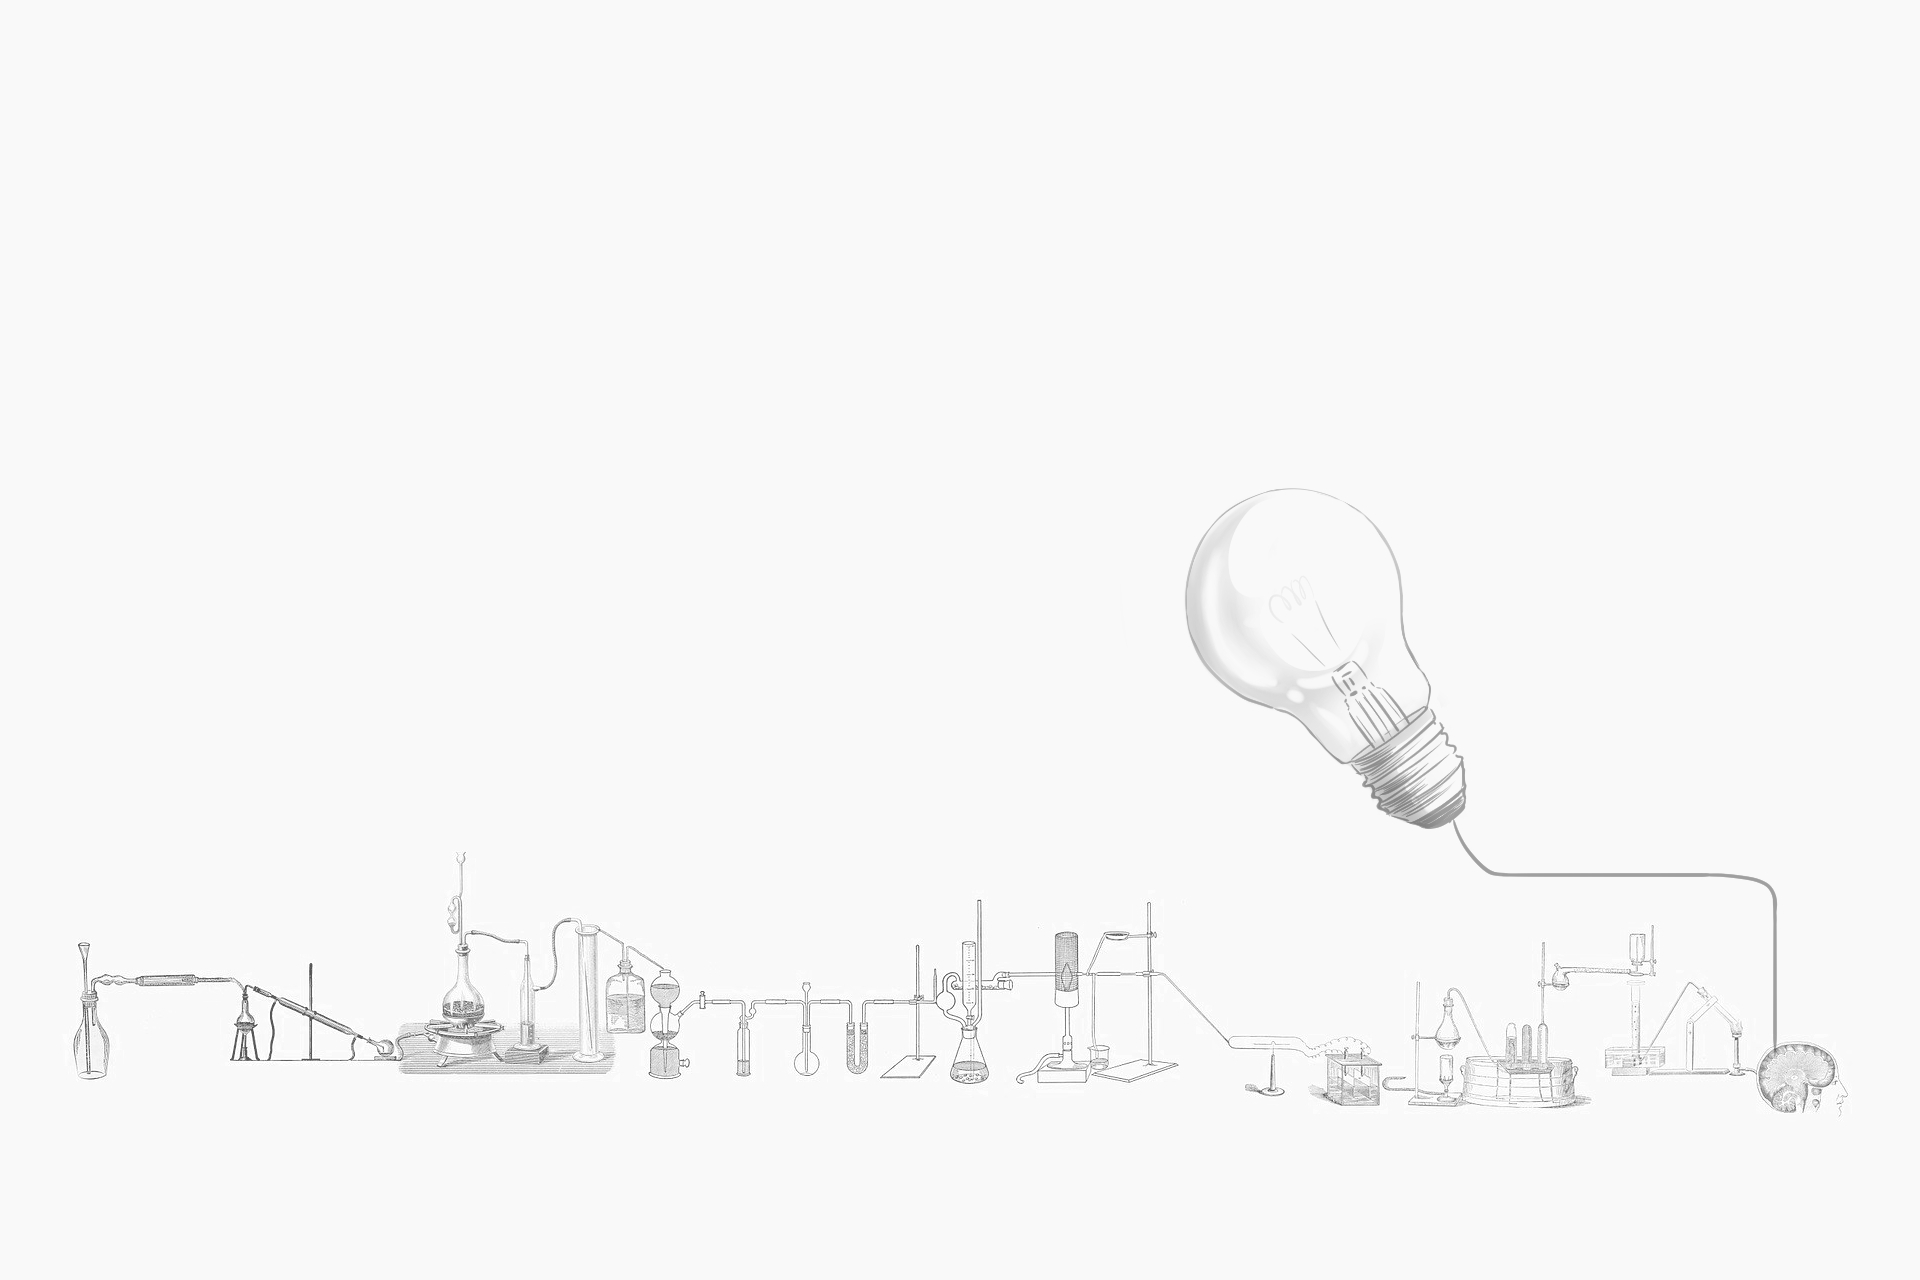
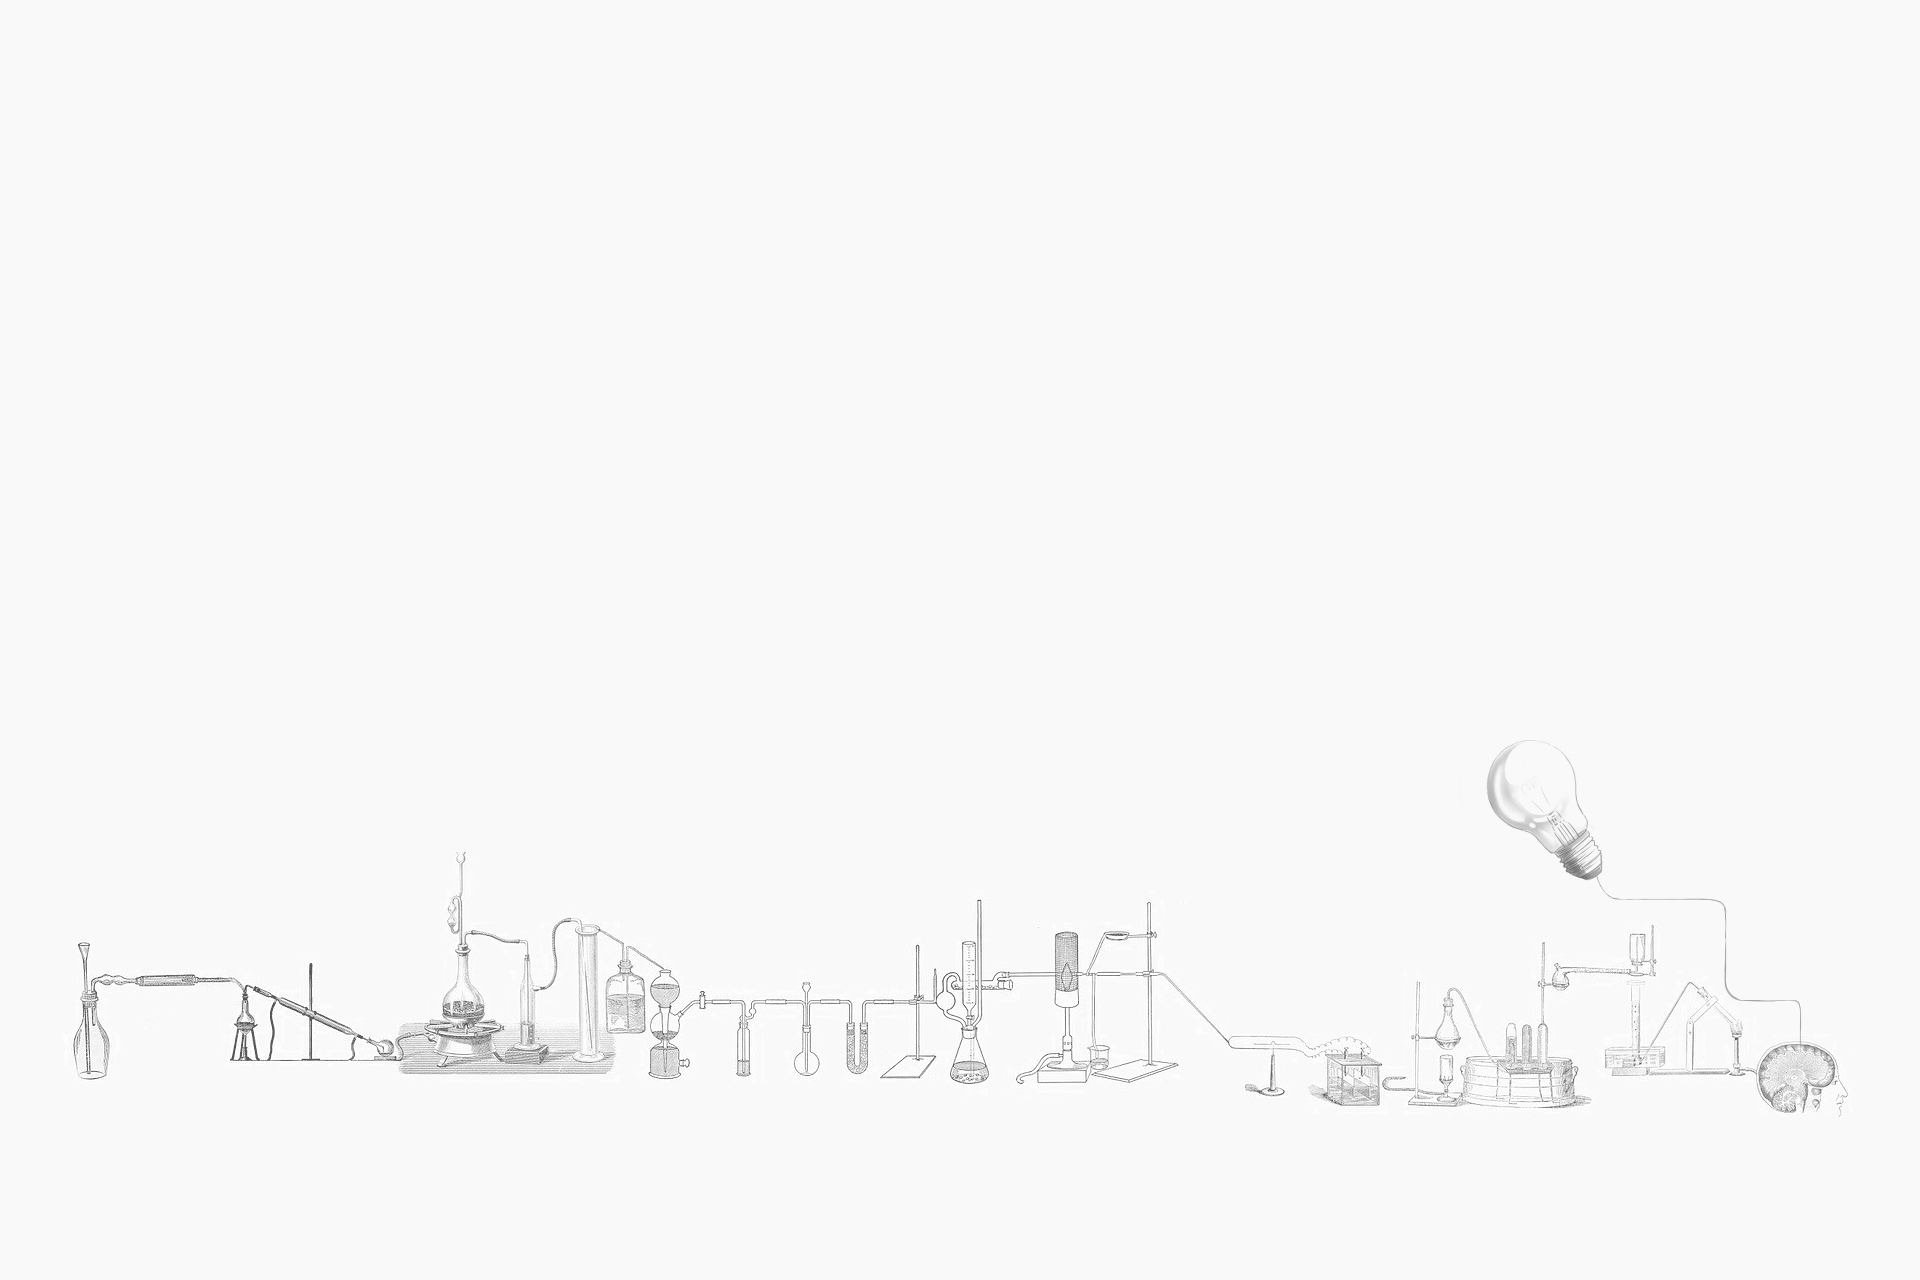
bulb

Changed region(s): [[0.625, 0.5, 0.8438, 0.6875], [0.5938, 0.4375, 0.625, 0.5], [0.9062, 0.7812, 0.9375, 0.8125]]

diff --git a/index.html b/index.html
@@ -293,20 +293,19 @@
 
                 <div class="offer_inner slider" id="offer-two">
 
-                    <div class="bulb">
+                    <!-- <div class="bulb">
                         <img src="assets/img/bulb.svg" alt="" srcset="">
-                    </div>
+                    </div> -->
+                    <h3>Support in</h3>
 
+                    <ul>
+                        <li>social-media campaigns</li>
+                        <li>content marketing</li>
+                        <li>multimedia & web-design</li>
+                        <li>visual identity creation</li>
 
-                    <div>
-                        <ul>
-                            <li>social-media campaigns</li>
-                            <li>content marketing</li>
-                            <li>multimedia & web-design</li>
-                            <li>visual identity creation</li>
+                    </ul>
 
-                        </ul>
-                    </div>
                 </div>
                 <div class="offer_inner slider" id="offer-three">
                     <h3>Our Research & Intel Team prepares:</h3>

diff --git a/assets/css/style.css b/assets/css/style.css
@@ -178,18 +178,7 @@ header {
   font-size: 1.4rem;
 }
 
-.bulb{
-  position:absolute;
-  top:3%;
-}
 
-#offer-two ul {
-  padding-top: 2.5em;
-}
-
-.bulb svg:hover {
-  filter: none;
-}
 .about::-webkit-scrollbar-track,
 .offer::-webkit-scrollbar-track {
   box-shadow: inset 0 0 6px rgba(0, 0, 0, 0.3);

diff --git a/assets/css/responsive.css b/assets/css/responsive.css
@@ -151,10 +151,7 @@
     background-size: 30%, 60%;
     width: 35%;
   }
-  .bulb img {
-    width: 108%;
-    height: 108%;
-  }
+
 }
 @media (min-device-width: 2350px) {
   .contact {
